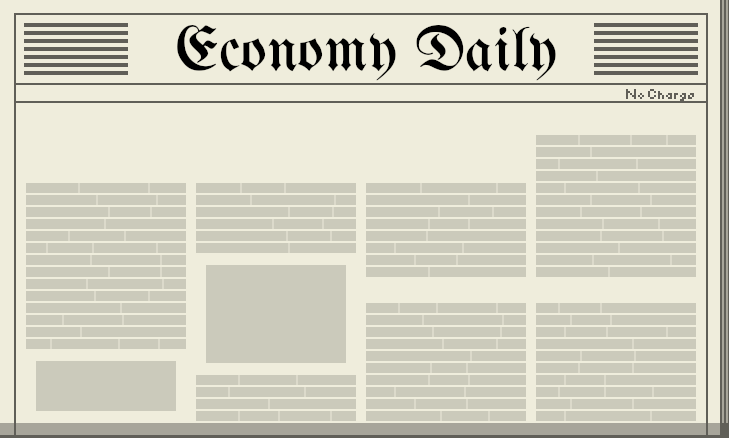
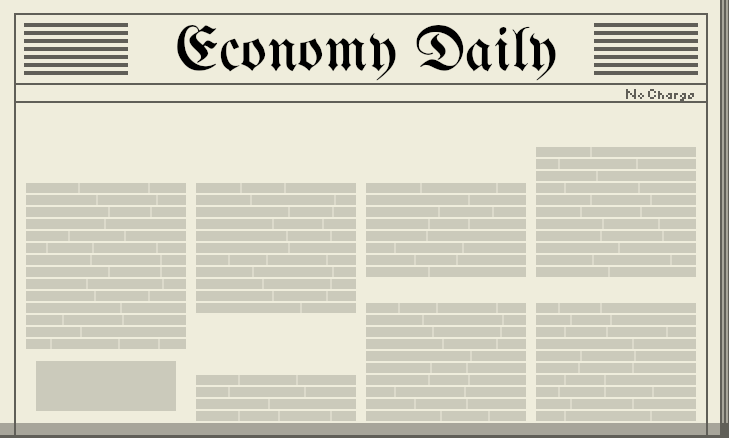
updates, added story

Changed region(s): [[0.2716, 0.5639, 0.513, 0.8311], [0.7243, 0.2968, 0.9657, 0.3562]]

diff --git a/internal/story.go b/internal/story.go
@@ -6,6 +6,7 @@ import (
 	"image/color"
 	"log"
 	"os"
+	"strconv"
 	"strings"
 
 	"github.com/hajimehoshi/ebiten/v2"
@@ -21,34 +22,38 @@ const (
 	article3X, article3Y = float64(532), float64(115)
 )
 
-type Point struct {
-	X float64 `json:"x"`
-	Y float64 `json:"y"`
+type Rect struct {
+	X      float64 `json:"x"`
+	Y      float64 `json:"y"`
+	Width  float64 `json:"width"`
+	Height float64 `json:"height"`
 }
 
 type Newspaper struct {
 	Template *ebiten.Image
 
-	Headline Point `json:"headline"`
+	Headline Rect `json:"headline"`
 
-	Article1 Point `json:"article1"`
-	Article2 Point `json:"article2"`
-	Article3 Point `json:"article3"`
+	Article1 Rect `json:"article1"`
+	Article2 Rect `json:"article2"`
+	Article3 Rect `json:"article3"`
+	Article4 Rect `json:"article4"`
 }
 
 type Story struct {
 	NewspaperTemplate string `json:"newspaperTemplate"`
-	Headline string `json:"headline"`
-	Article1 string `json:"article1"`
-	Article2 string `json:"article2"`
-	Article3 string `json:"article3"`
+	Headline          string `json:"headline"`
+	Article1          string `json:"article1"`
+	Article2          string `json:"article2"`
+	Article3          string `json:"article3"`
+	Article4          string `json:"article4"`
 }
 
 var (
 	fadedColor = color.RGBA{96, 95, 88, 255}
 
 	newspapers map[string]Newspaper
-	story map[string]Story
+	story      map[string]Story
 )
 
 func init() {
@@ -90,17 +95,19 @@ func init() {
 }
 
 func (g *Game) drawNewsPaper(screen *ebiten.Image) {
-	newspaper := newspapers["1"]
-	today := story["1"]
+
+	today := story[strconv.Itoa(g.stats.day+1)]
+	newspaper := newspapers[today.NewspaperTemplate]
 
 	paper := ebiten.NewImageFromImage(newspaper.Template)
 
-	util.DrawText(paper, dateX, dateY, fadedColor, "September", nil)
+	util.DrawText(paper, dateX, dateY, fadedColor, fmt.Sprintf("%d September 2008", g.stats.day+1), nil)
 
-	util.DrawText(paper, newspaper.Headline.X, newspaper.Headline.Y, color.Black, today.Headline, util.TitleFont)
-	util.DrawText(paper, newspaper.Article1.X, newspaper.Article1.Y, color.Black, today.Article1, nil)
-	util.DrawText(paper, newspaper.Article2.X, newspaper.Article2.Y, color.Black, today.Article2, nil)
-	util.DrawText(paper, newspaper.Article3.X, newspaper.Article3.Y, color.Black, today.Article3, nil)
+	util.DrawTextInRect(paper, today.Headline, newspaper.Headline.X, newspaper.Headline.Y, newspaper.Headline.Width, newspaper.Headline.Height, color.Black, util.TitleFont)
+	util.DrawTextInRect(paper, today.Article1, newspaper.Article1.X, newspaper.Article1.Y, newspaper.Article1.Width, newspaper.Article1.Height, color.Black, nil)
+	util.DrawTextInRect(paper, today.Article2, newspaper.Article2.X, newspaper.Article2.Y, newspaper.Article2.Width, newspaper.Article2.Height, color.Black, nil)
+	util.DrawTextInRect(paper, today.Article3, newspaper.Article3.X, newspaper.Article3.Y, newspaper.Article3.Width, newspaper.Article3.Height, color.Black, nil)
+	util.DrawTextInRect(paper, today.Article4, newspaper.Article4.X, newspaper.Article4.Y, newspaper.Article4.Width, newspaper.Article4.Height, color.Black, nil)
 	op := &ebiten.DrawImageOptions{}
 	op.GeoM.Translate(float64(util.ConfigFile.ScreenWidth)/2-float64(paper.Bounds().Dx())/2, float64(util.ConfigFile.ScreenHeight)/2-float64(paper.Bounds().Dy())/2)
 	screen.DrawImage(paper, op)

diff --git a/util/util.go b/util/util.go
@@ -116,7 +116,7 @@ func DrawText(screen *ebiten.Image, x, y float64, textColor color.Color, message
 		if float32(th) > textHeight {
 			textHeight = float32(th)
 		}
-		y+=float64(textHeight)
+		y += float64(textHeight)
 	}
 	return &Button{
 		Name:   message,
@@ -132,4 +132,83 @@ func SelectActiveColor(b bool) color.RGBA {
 		return activeColor
 	}
 	return inactiveColor
+}
+
+// measureText measures the width and height of a line of text with a specific font face
+func measureText(line string, face *text.GoTextFace) (width, height float64) {
+	return text.Measure(line, face, 0)
+}
+
+// wrapText splits the message into lines that fit within the specified width
+func wrapText(message string, face *text.GoTextFace, maxWidth float64) []string {
+	words := strings.Fields(message) // Split message into words
+	var lines []string
+	var line string
+
+	for _, word := range words {
+		testLine := line + word + " "
+		lineWidth, _ := measureText(testLine, face)
+
+		if lineWidth > maxWidth && line != "" {
+			// Add the current line to the lines slice and start a new line
+			lines = append(lines, strings.TrimSpace(line))
+			line = word + " "
+		} else {
+			// Add the word to the current line
+			line = testLine
+		}
+	}
+
+	// Append the final line
+	if line != "" {
+		lines = append(lines, strings.TrimSpace(line))
+	}
+
+	return lines
+}
+
+// adjustFontSize dynamically adjusts the font size to fit within the rectangle
+func adjustFontSize(message string, font *text.GoTextFace, maxWidth, maxHeight, minSize float64) *text.GoTextFace {
+	for size := font.Size; size >= minSize; size -= 1 {
+		font = &text.GoTextFace{
+			Source: font.Source,
+			Size:   size,
+		}
+		lines := wrapText(message, font, maxWidth)
+
+		// Measure total height of the wrapped text
+		_, lineHeight := measureText(message, font) // Get height of one line of text
+		totalLineHeight := lineHeight * float64(len(lines))
+		if totalLineHeight <= maxHeight {
+			return font
+		}
+	}
+	return DefaultFont // Default font if no suitable size is found
+}
+
+// DrawTextInRect wraps and draws text within a rectangle, scaling font size to fit
+func DrawTextInRect(screen *ebiten.Image, message string, x, y, width, height float64, textColor color.Color, font *text.GoTextFace) {
+	if font == nil {
+		font = DefaultFont
+	}
+
+	// Dynamically adjust font size to fit within the rectangle
+	font = adjustFontSize(message, font, width, height, 5)
+	// Wrap the text into lines that fit the rectangle width
+	lines := wrapText(message, font, width)
+	// Draw each line inside the rectangle
+	drawY := y
+	_, lineHeight := measureText(strings.Join(lines, "\n"), font)
+	for _, line := range lines {
+		lineWidth, _ := measureText(line, font)
+		// Center each line horizontally
+		op := &text.DrawOptions{}
+		textX := x + (width-float64(lineWidth))/2
+		op.GeoM.Translate(textX, drawY)
+		op.ColorScale.ScaleWithColor(textColor)
+		// Draw the line
+		text.Draw(screen, line, font, op)
+		// Move the Y position down for the next line
+		drawY += float64(lineHeight)
+	}
 }

diff --git a/internal/game.go b/internal/game.go
@@ -154,8 +154,9 @@ func (g *Game) Update() error {
 		return nil
 	}
 	if g.isDrawingNewsPaper && inpututil.IsMouseButtonJustPressed(ebiten.MouseButtonLeft) {
-		g.isDrawingNewsPaper = false
-		g.stats.time = time.Date(0, 0, 0, 7, 0, 0, 0, time.Local)
+		g.stats.day++
+		// g.isDrawingNewsPaper = false
+		// g.stats.time = time.Date(0, 0, 0, 7, 0, 0, 0, time.Local)
 		return nil
 	}
 
